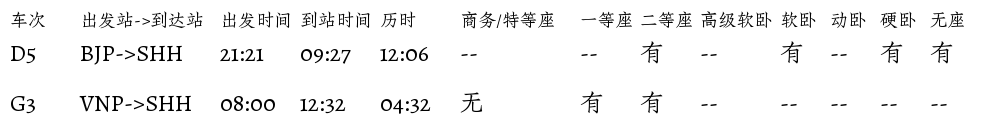
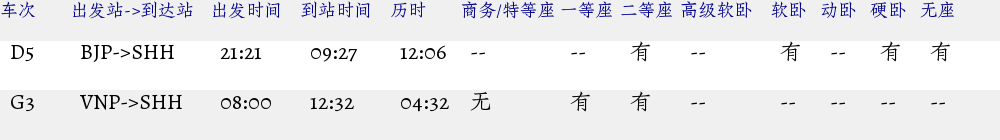
美化12306火车票车次图

diff --git a/yingying/train/_picture_.py b/yingying/train/_picture_.py
@@ -31,13 +31,13 @@ def render_tickets_to_image(tickets_json, image_path):
     # 准备绘图
     img_width = 1000
     row_height = 50  # 增加行高以适应更大的字体
-    header_height = 40  # 为标题设置较小的高度
+    header_height = 40  # 为标题设置较大的高度
     img_height = header_height + row_height * len(results)
     image = Image.new("RGB", (img_width, img_height), "white")
     draw = ImageDraw.Draw(image)
-    font_path = "gsuid_core/plugins/YingYing/font/朱雀仿宋.ttf"
-    header_font_size = 18  # 标题行较小字体大小
-    detail_font_size = 24  # 详情行较大字体大小
+    font_path = r"C:\Users\Administrator\PycharmProjects\yingying_core\gsuid_core\gsuid_core\plugins\YingYing\font/朱雀仿宋.ttf"
+    header_font_size = 18  # 标题行较大字体大小
+    detail_font_size = 22  # 详情行较大字体大小
     try:
         header_font = ImageFont.truetype(font_path, header_font_size)
         detail_font = ImageFont.truetype(font_path, detail_font_size)
@@ -45,50 +45,41 @@ def render_tickets_to_image(tickets_json, image_path):
         header_font = ImageFont.load_default()
         detail_font = ImageFont.load_default()
 
+    # 定义颜色
+    header_color = "darkblue"  # 标题颜色
+    text_color = "black"  # 文本颜色
+    alternate_row_color = "#F0F0F0"  # 交替行的背景色
+
+    # 绘制标题背景
+    draw.rectangle([0, 0, img_width, header_height], fill=alternate_row_color)
+
     # 绘制标题
     headers = [
-        "车次",
-        "出发站->到达站",
-        "出发时间",
-        "到站时间",
-        "历时",
-        "商务/特等座",
-        "一等座",
-        "二等座",
-        "高级软卧",
-        "软卧",
-        "动卧",
-        "硬卧",
-        "无座",
+        "车次", "出发站->到达站", "出发时间", "到站时间", "历时",
+        "商务/特等座", "一等座", "二等座", "高级软卧", "软卧", "动卧", "硬卧", "无座"
     ]
-    column_widths = [70, 140, 80, 80, 80, 120, 60, 60, 80, 50, 50, 50, 50]
-    x_offset = 10
+    column_widths = [70, 140, 90, 90, 70, 100, 60, 60, 90, 50, 50, 50, 50]
+    x_offset = 0
     for i, header in enumerate(headers):
-        draw.text((x_offset, 10), header, fill="black", font=header_font)
+        draw.text((x_offset, 0), header, fill=header_color, font=header_font)
         x_offset += column_widths[i]
 
     # 绘制车次信息
     y_offset = header_height
-    for ticket in results:
+    for index, ticket in enumerate(results):
+        if index % 2 == 1:  # 为每个交替的行添加背景色
+            draw.rectangle([0, y_offset, img_width, y_offset + row_height], fill=alternate_row_color)
         x_offset = 10
-        info = parse_ticket_info(ticket)
+        # 假设 `parse_ticket_info` 函数可以从ticket中解析出所需的信息
+        info = parse_ticket_info(ticket)  # 需要定义这个函数
         details = [
-            info["train_no"],
-            info["from_to"],
-            info["starttime"],
-            info["endtime"],
-            info["duration"],
-            info["seat_info"]["商务/特等座"],
-            info["seat_info"]["一等座"],
-            info["seat_info"]["二等座"],
-            info["seat_info"]["高级软卧"],
-            info["seat_info"]["软卧"],
-            info["seat_info"]["动卧"],
-            info["seat_info"]["硬卧"],
-            info["seat_info"]["无座"],
+            info["train_no"], info["from_to"], info["starttime"], info["endtime"], info["duration"],
+            info["seat_info"]["商务/特等座"], info["seat_info"]["一等座"], info["seat_info"]["二等座"],
+            info["seat_info"]["高级软卧"], info["seat_info"]["软卧"], info["seat_info"]["动卧"],
+            info["seat_info"]["硬卧"], info["seat_info"]["无座"]
         ]
         for i, detail in enumerate(details):
-            draw.text((x_offset, y_offset), detail, fill="black", font=detail_font)
+            draw.text((x_offset, y_offset), detail, fill=text_color, font=detail_font)
             x_offset += column_widths[i]
         y_offset += row_height
 
